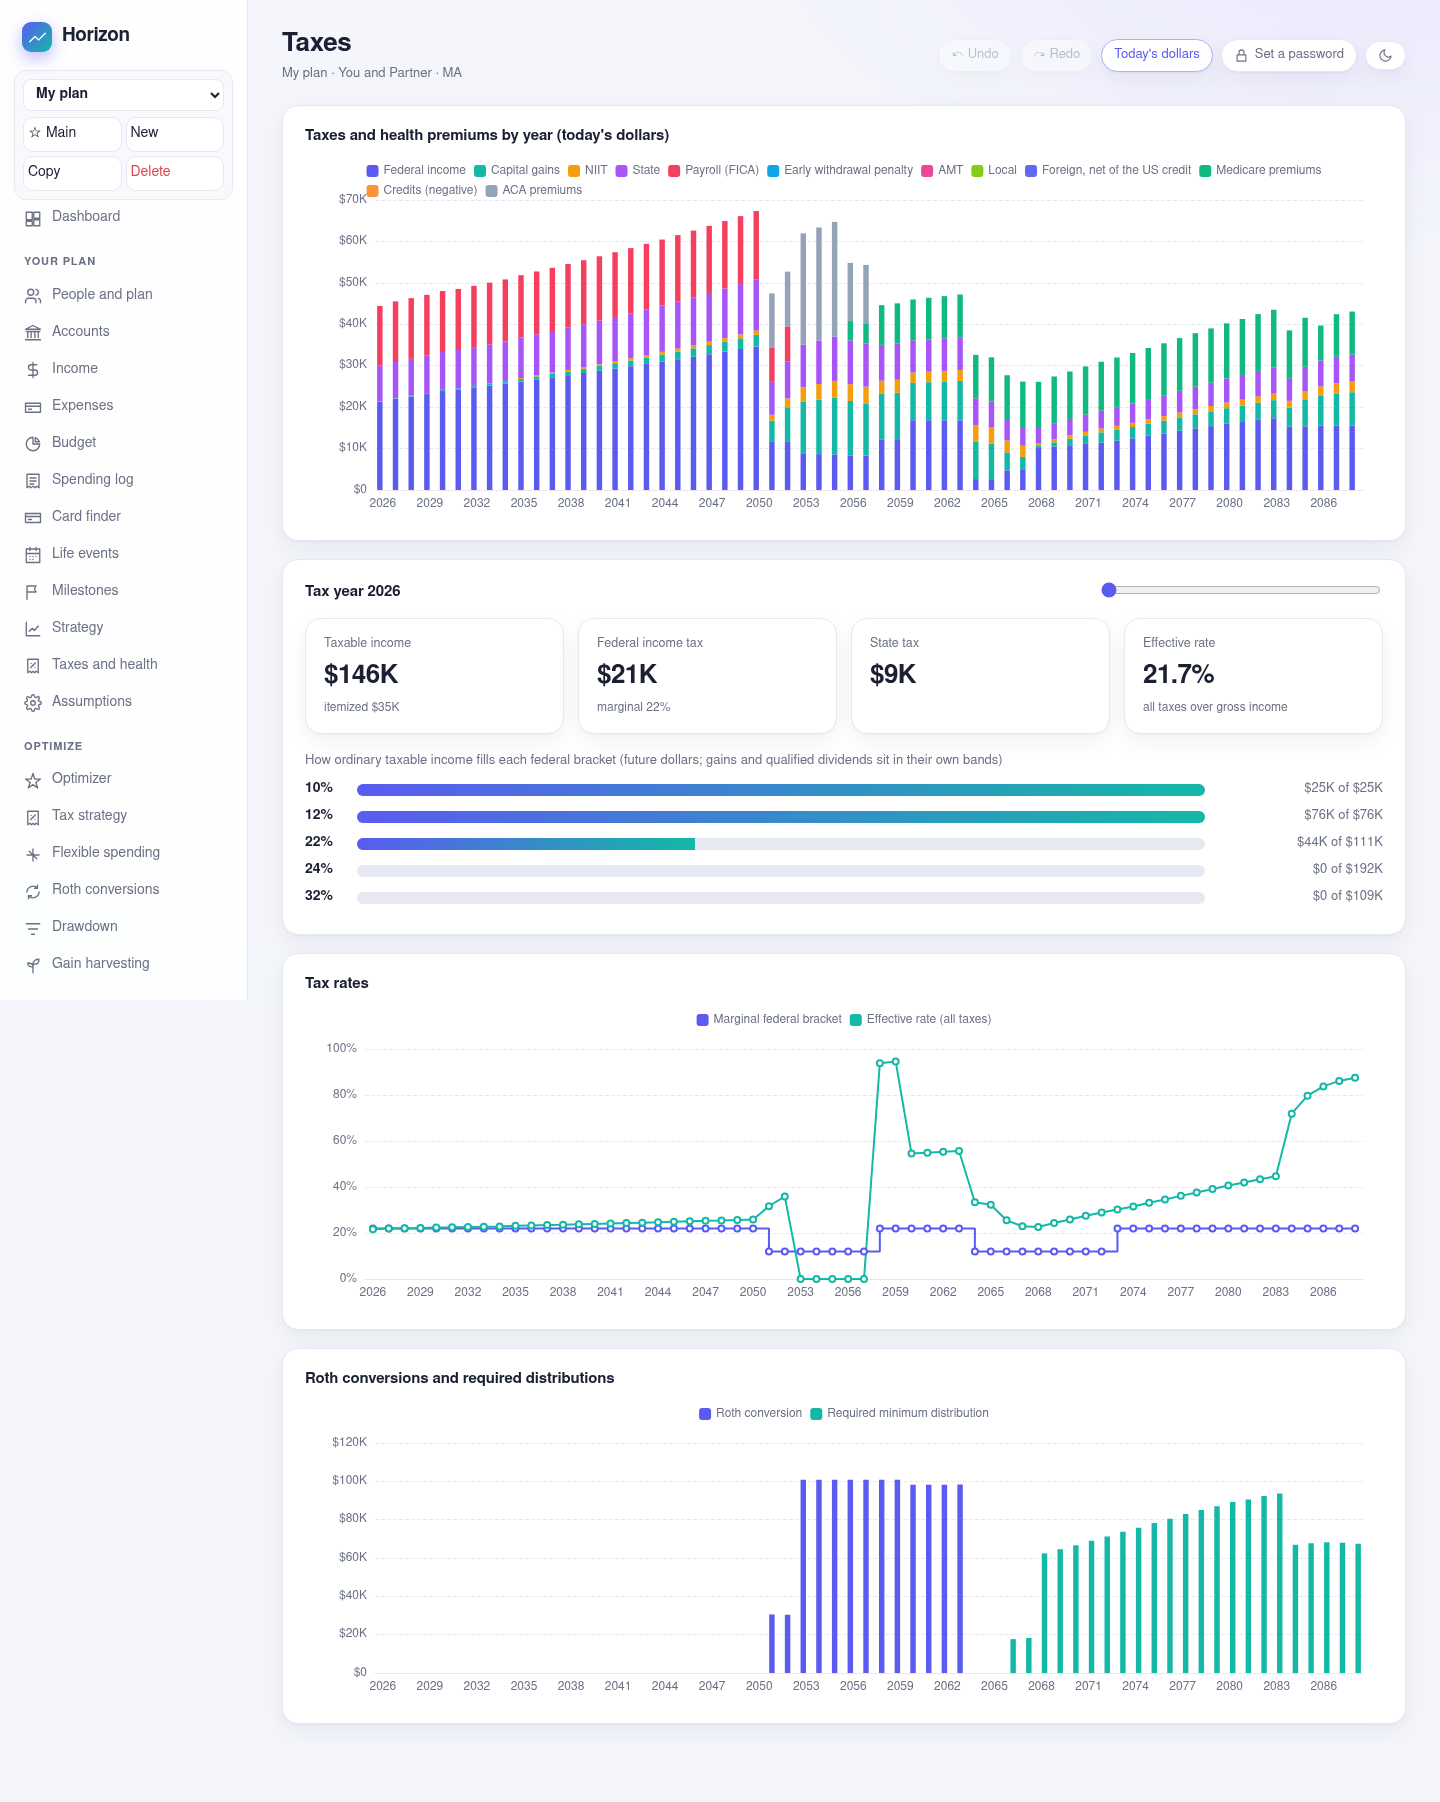
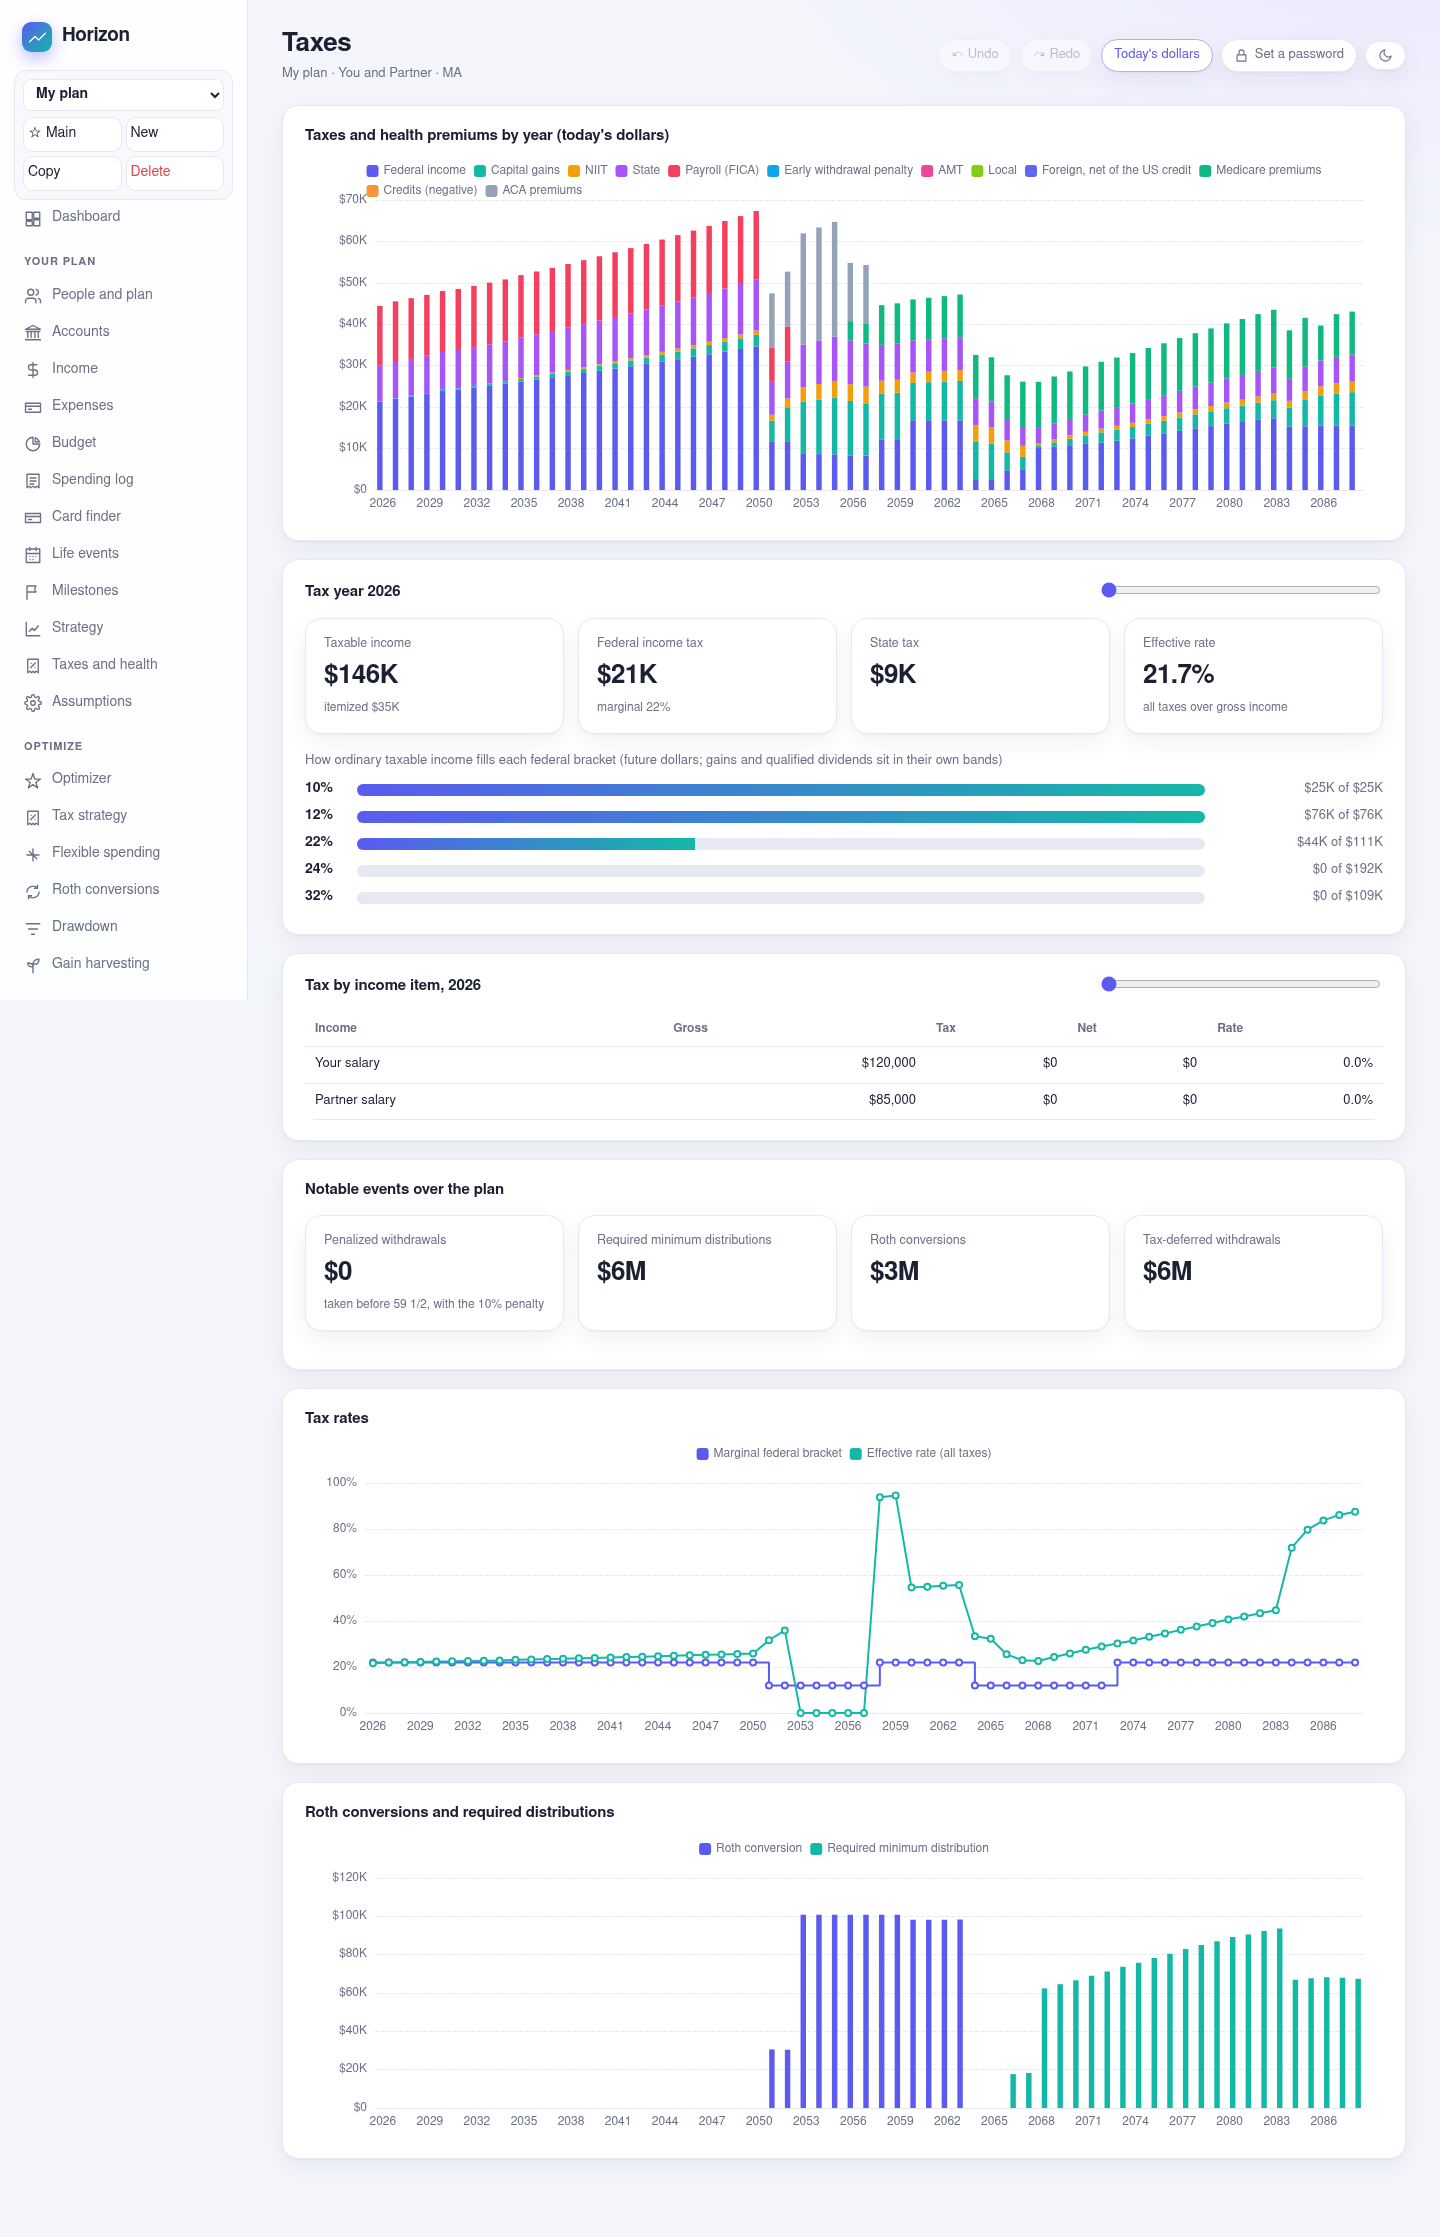
Taxes page: tax by income item (gross, tax, net, rate) and the plan's notable events (penalized withdrawals, RMDs, Roth conversions, tax-deferred withdrawals)
Claude-Session: https://claude.ai/code/session_01HeJ1UAxjk6MGEszesTwGbu

diff --git a/10_app/code/src/pages/More.tsx b/10_app/code/src/pages/More.tsx
@@ -160,3 +160,62 @@ export function TaxYear() {
     </Card>
   );
 }
+
+/** The plan's notable tax events over its life (ProjectionLab's Tax Analytics): penalized withdrawals, RMDs, Roth
+ * conversions, and tax-deferred withdrawals, in future dollars. */
+export function NotableEvents() {
+  const { plan, proj } = useProjection();
+  const trad = new Set(plan.accounts.filter((a) => a.kind === 'traditional').map((a) => a.id));
+  let penalized = 0, rmd = 0, conv = 0, deferred = 0;
+  for (const y of proj.years) {
+    penalized += (y.taxes.penalty ?? 0) / 0.1;
+    rmd += y.rmd ?? 0; conv += y.rothConversion ?? 0;
+    for (const [id, v] of Object.entries(y.withdrawals ?? {})) if (trad.has(id)) deferred += v;
+  }
+  return (
+    <Card title="Notable events over the plan">
+      <div className="stats">
+        <Stat label="Penalized withdrawals" value={money(penalized, true)} sub="taken before 59 1/2, with the 10% penalty" />
+        <Stat label="Required minimum distributions" value={money(rmd, true)} />
+        <Stat label="Roth conversions" value={money(conv, true)} />
+        <Stat label="Tax-deferred withdrawals" value={money(deferred, true)} />
+      </div>
+    </Card>
+  );
+}
+
+/** Each income of a year with its share of tax: ordinary income at the year's average income tax rate on ordinary income,
+ * wages with payroll tax added (an average, not each item's marginal rate). */
+export function TaxByItem() {
+  const { plan, proj } = useProjection();
+  const [year, setYear] = useState(plan.startYear);
+  const y = proj.years.find((q) => q.year === year) ?? proj.years[0];
+  const t = y.taxes;
+  const ordinary = Math.max(1, t.taxableIncome + (t.deduction ?? 0));
+  const incomeRate = (t.federal + t.state + (t.local ?? 0) - t.capitalGains) / ordinary;
+  const wages = plan.incomes.filter((x) => x.kind === 'salary' || x.kind === 'selfEmployment').reduce((s, x) => s + (y.income[x.id] ?? 0), 0);
+  const payroll = wages > 0 ? t.fica / wages : 0;
+  const names = new Map<string, string>([...plan.incomes.map((x) => [x.id, x.name] as [string, string]), ...plan.accounts.map((a) => [a.id, a.name + ' (withdrawal)'] as [string, string])]);
+  const rows = [
+    ...Object.entries(y.income).filter(([, v]) => v > 0).map(([id, v]) => {
+      const inc = plan.incomes.find((x) => x.id === id);
+      const work = inc?.kind === 'salary' || inc?.kind === 'selfEmployment';
+      const rate = inc && !inc.taxable ? 0 : incomeRate + (work ? payroll : 0);
+      return { name: names.get(id) ?? id, gross: v, rate };
+    }),
+    ...Object.entries(y.withdrawals ?? {}).filter(([, v]) => v > 0).map(([id, v]) => {
+      const a = plan.accounts.find((x) => x.id === id);
+      return { name: names.get(id) ?? id, gross: v, rate: a?.kind === 'traditional' ? incomeRate : 0 };
+    }),
+  ].sort((p, q) => q.gross - p.gross);
+  return (
+    <Card title={`Tax by income item, ${year}`} actions={<input type="range" min={plan.startYear} max={proj.years[proj.years.length - 1].year} value={year} onChange={(e) => setYear(Number(e.target.value))} />}>
+      <div className="scroll">
+        <table className="num">
+          <thead><tr><th>Income</th><th>Gross</th><th>Tax</th><th>Net</th><th>Rate</th></tr></thead>
+          <tbody>{rows.map((r, i) => <tr key={i}><td>{r.name}</td><td>{money(r.gross)}</td><td>{money(r.gross * r.rate)}</td><td>{money(r.gross * (1 - r.rate))}</td><td>{pct(r.rate)}</td></tr>)}</tbody>
+        </table>
+      </div>
+    </Card>
+  );
+}

diff --git a/10_app/code/src/pages/Analysis.tsx b/10_app/code/src/pages/Analysis.tsx
@@ -10,7 +10,7 @@ import { useStore, type Snapshot } from '../store';
 import { projectPlan, useProjection } from '../useProjection';
 import { Card, Chart, Num, Select, Stat, money, moneyAxis, moneyTooltip, pct } from '../ui';
 import { Icon } from '../icons';
-import { TaxYear } from './More';
+import { NotableEvents, TaxByItem, TaxYear } from './More';
 import { uid } from '../engine/defaults';
 import { fireMetrics } from '../engine/fire';
 
@@ -211,6 +211,8 @@ export function TaxesPage() {
         }} />
       </Card>
       <TaxYear />
+      <TaxByItem />
+      <NotableEvents />
       {proj.years.some((y) => y.taxes.withheld) && <Card title="Tax withheld and tax owed" wide>
         <Chart height={260} option={{
           tooltip: moneyTooltip, legend: {}, grid: { left: 70, right: 16, top: 40, bottom: 30 }, xAxis: { type: 'category', data: proj.years.map((y) => String(y.year)) }, yAxis: moneyAxis,

diff --git a/todo.md b/todo.md
@@ -45,8 +45,8 @@ Asked by Bryce on 2026-11-23, in the order to build.
 ## From ProjectionLab's screens (Bryce's screenshots, 2026-11-23)
 
 ## Simplified models to finish (Bryce, 2026-11-23)
-- Ontario's low-income tax reduction; Quebec's other credits (living alone, age, retirement income).
-- Germany: church tax (8% or 9% by state) and the care surcharge for the childless; the allowance for pensions' own expenses.
+- Quebec's other credits (living alone, age, retirement income); Ontario's $575 reduction for each child.
+- Germany: the allowance for pensions' own expenses.
 - Netherlands: box 1 rates and credits from the state pension age; box 2.
 - Spain: every region's own income tax scale and wealth tax allowance in place of the reference scale.
 - UK: the lump sum allowance's £268,275 cap on tax-free pension withdrawals; the April 2027 rise in savings rates.
@@ -54,6 +54,5 @@ Asked by Bryce on 2026-11-23, in the order to build.
 - Tax strategy: several targets at once (bracket, IRMAA, ACA, an income ceiling) with constraints, in place of one shield.
 
 ## From the live ProjectionLab app (signed in 2026-11-23; captures in 99_overall/output/pl_live/)
-- Estate: heirs' tax rate on tax-deferred accounts, capital gains rate, stepped-up basis, liquidation cost, administrative cost, the final tax return, estate drag, and a breakdown by account.
-- Tax analytics: by income item, gross, tax, net, and effective rate; notable events (penalized distributions, RMDs, Roth conversions, tax-deferred distributions).
+- Estate: the final tax return, and a breakdown of the estate by account.
 
